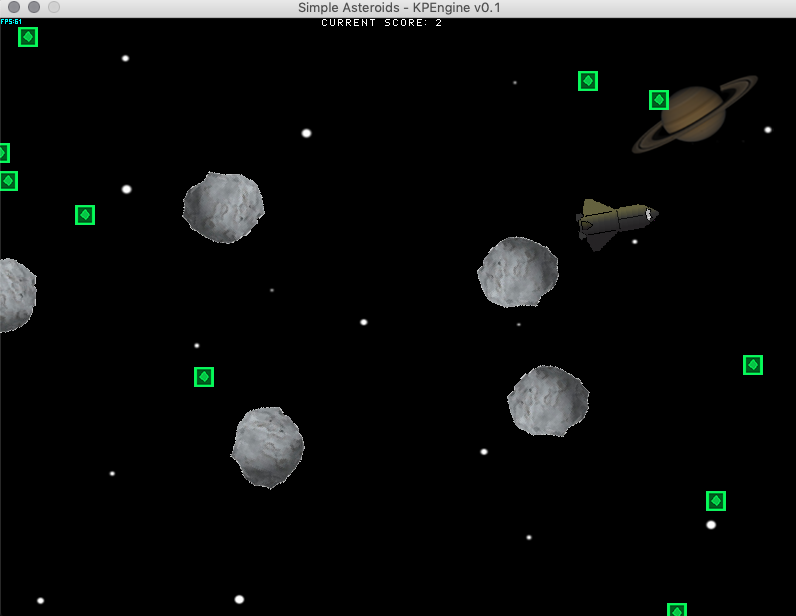
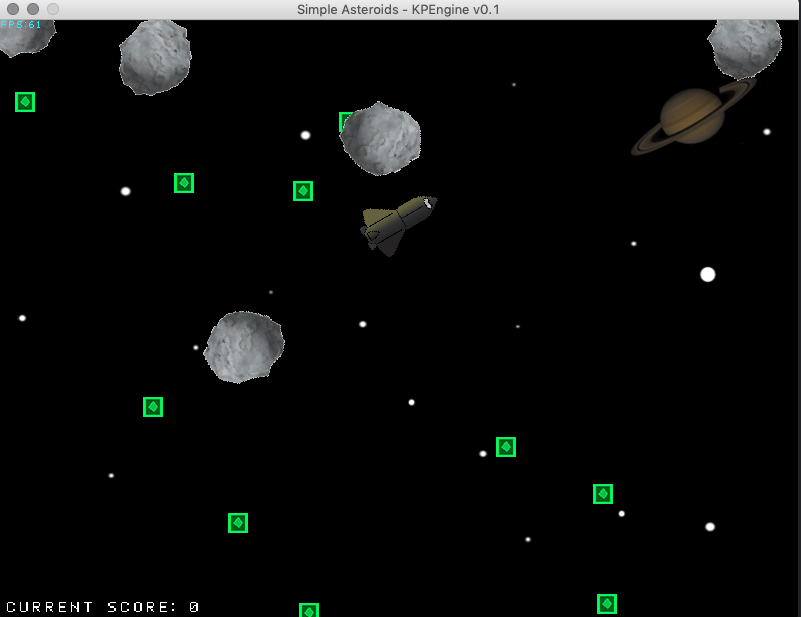
updated screenshot, added larger font

diff --git a/src/io/kylepeeler/Game/BasicGame.java b/src/io/kylepeeler/Game/BasicGame.java
@@ -88,7 +88,7 @@ public class BasicGame extends AbstractGame{
             }
             asteroid.update(gc);
         }
-        //System.out.println("Sprite position: " + spaceship.getX() + ", " + spaceship.getY());
+        System.out.println("Spaceship position: " + spaceship.getX() + ", " + spaceship.getY());
     }
 
     @Override
@@ -101,7 +101,7 @@ public class BasicGame extends AbstractGame{
         for (int i = 0; i < 5; i++){
             r.renderSprite(asteroids[i]);
         }
-        r.renderString(gameText, 5, gc.getHeight() - 20, 0xFFFFFFFF, Font.FontSize.STANDARD);
+        r.renderString(gameText, 5, gc.getHeight() - 20, 0xFFFFFFFF, Font.FontSize.LARGE);
     }
 
     @Override

diff --git a/src/io/kylepeeler/GameEngine/GameContainer.java b/src/io/kylepeeler/GameEngine/GameContainer.java
@@ -79,7 +79,6 @@ public class GameContainer implements Runnable{
     }
 
     public void stop(){
-        //TODO: implement
        isRunning = false;
     }
 
@@ -116,7 +115,7 @@ public class GameContainer implements Runnable{
             if (shouldRender){
                 renderer.clearScreen();
                 game.render(this, renderer);
-                renderer.renderString("FPS:" + fps, 0, 0, 0xff00ffff, Font.FontSize.SMALL);
+                renderer.renderString("FPS:" + fps, 0, 0, 0xff00ffff, Font.FontSize.STANDARD);
                 window.update();
                 framesPassed++;
             }else{

diff --git a/src/io/kylepeeler/GameEngine/gfx/Font.java b/src/io/kylepeeler/GameEngine/gfx/Font.java
@@ -3,11 +3,12 @@ package io.kylepeeler.GameEngine.gfx;
 public class Font  {
 
     public enum FontSize {
-        STANDARD, SMALL;
+        STANDARD, SMALL, LARGE;
     }
 
     public static final Font STANDARD = new Font("/fonts/standard-font.png");
     public static final Font SMALL = new Font("/fonts/standard-font-micro.png");
+    public static final Font LARGE = new Font("/fonts/large-font.png");
 
     private Sprite fontSprite;
     private int[] offsets;

diff --git a/src/io/kylepeeler/GameEngine/GameRenderer.java b/src/io/kylepeeler/GameEngine/GameRenderer.java
@@ -41,6 +41,8 @@ public class GameRenderer {
             font = Font.SMALL;
         }else if (size == Font.FontSize.STANDARD){
             font = Font.STANDARD;
+        }else if (size == Font.FontSize.LARGE){
+            font = Font.LARGE;
         }
         text = text.toUpperCase();
         int offset = 0;
